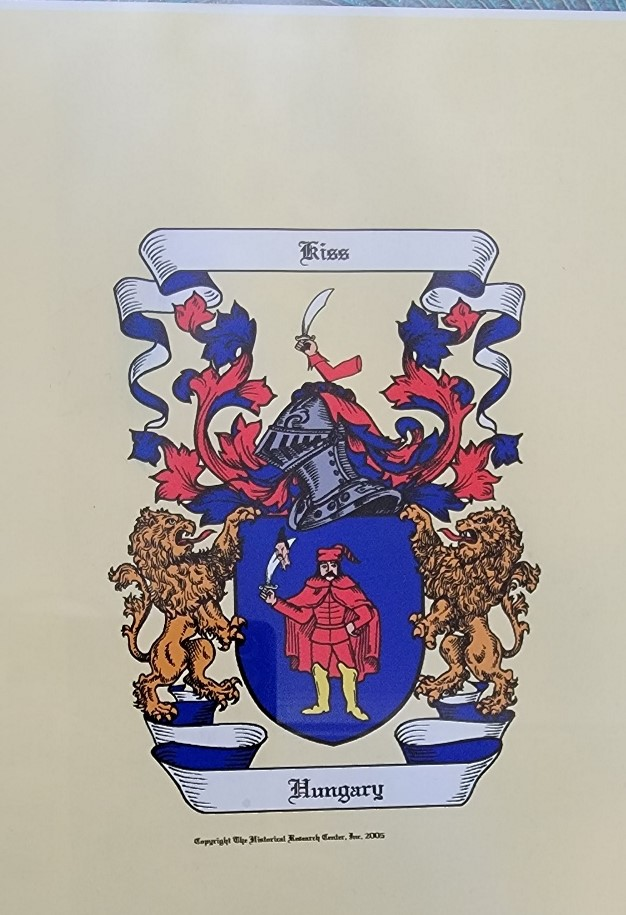
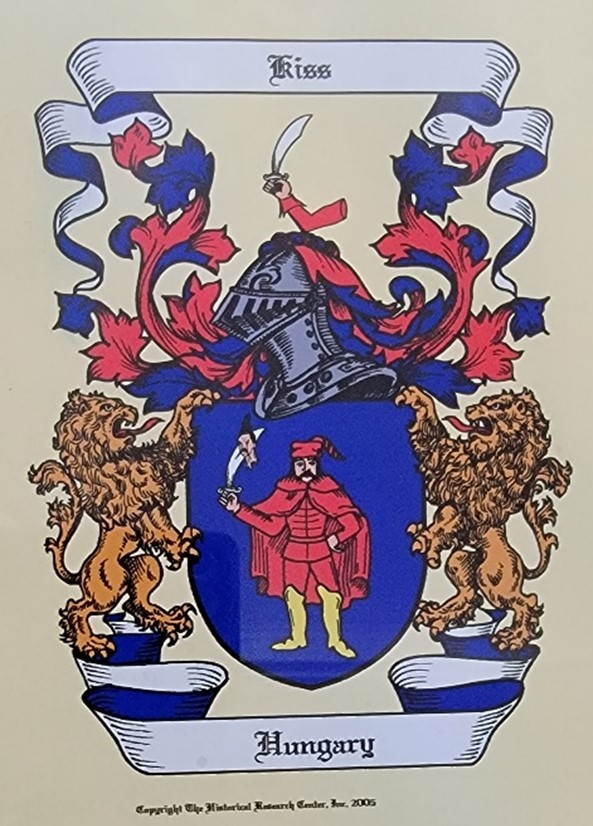
update to finished biopage

diff --git a/pages/Morris_about_page.html b/pages/Morris_about_page.html
@@ -43,39 +43,53 @@
 
                 <div id=story class="card-content">
                     <p>
-                        Born in Hungary in 1912. He grew up and finished high school as a promise to his mother. Then went against 
-                        family tradition and did not go to college but left to follow his dream to sail the world. Later joined the 
+                        Born in Hungary, August 28, 1912. He grew up and finished high school as a promise to his mother. Then went against 
+                        family tradition and did not go to college, but left to follow his dream of sailing the world. Later he joined the 
                         Hungarian army and became an officer before World War II started. During the war he was 
-                        commanded to march a battalion of 214 Jews 1500 miles to death, every one of them survived 
-                        because of the care he gave them, other battalions were not so lucky.
+                        commanded to march a battalion of 214 Jews 1500 miles to death, however, every one of them survived 
+                        because of the care he gave them; other battalions were not so lucky.
                     </p>
                     <p>
-                        Later he rented out apartments and with the help of one of the survivors from his death march battalion, 
-                        who was a lawyer, stole and forged identity papers for hiding Jews and to get them out of the 
+                        Later he rented out apartments and with the help of one of the survivors from the death march battalion, 
+                        who was a lawyer, stole and forged identity papers for hiding Jews and getting them out of the 
                         county and to safety.
                     </p>
                     <p>
-                        He and his family with many struggles finally made it out of Hungary and made it to Iserial 
-                        and later to America and settled in Queens, New York. There he became a painter and had a 
+                        He and his family, with many struggles, finally made it out of Hungary and made it to Israel.
+                    Later they immigtated to America and settled in Queens, New York. There he became a painter and he lived a 
                         better life with his wife and two children. He died at the age of 72 from cancer.
                     </p>
                     <p>
                         His wife, Henrietta, passed away in 2008. His son, Peter and his wife Karen live in 
-                        Huntsville, AL, and own a cyber security firm. His daughter, Judith and her husband 
+                        Huntsville, AL, and owns a cyber security firm. His daughter, Judith and her husband 
                         Thomas are retired in Bellevue, NE. Judy and Tom gave Barna 5 grandchildren, Robert 
-                        (Tom’s from a previous marriage), Tereza, Paul, Brenda, and Kathleen, all of them live 
-                        in the Bellevue, Ne Area. They all gave him 7 great-grandchildren, whom he was unfortunately 
-                        not able to meet, Ricky and Anthony from Robert, Jacob and Brandon from Tereza, David and 
+                        (Tom’s son from a previous marriage), Tereza, Paul, Brenda, and Kathleen, all of them live 
+                        in the Bellevue, Ne Area. They all gave him 8 great-grandchildren, whom he was unfortunately 
+                        not able to meet, Ricky and Anthony from Robert, Jacob and Brandon from Tereza, Autumn from Paul's wife, David and 
                         Tobias from Brenda, and Luke from Kathleen. They all have and will continue to hear his 
                         stories for many generations to come.
                     </p>
+                </div>
+                <div class="card-title">
+                    <h3>Kiss Family Crest</h3>
+                </div>
+
+                <div class="card-content">
+                    <div class="row">
+                        <div class="column" >
+                            <img src="../images/crest.jpg" >
+                        </div>
+                        <div class="column" >
+                            <img class="wide" src="../images/crestInfo.jpg" >
+                        </div>
+                    </div>
                 </div>
             </div>
         </div>
 
         <footer>
             <p>
-                
+                &copy; <script>document.write(new Date().getFullYear())</script> - <a>Jason Morris</a>
             </p>
         </footer>
     </body>

diff --git a/Morris_bioLanding_page.html b/Morris_bioLanding_page.html
@@ -45,7 +45,7 @@
                             <img class="wide" src="images/needlepoint ship.jpg" >
                         </div>
                     </div>
-
+                    <br>
                     <figcaption>Barna made a promise to his mother to finish high school before he followed his 
                         dreams of sailing around the world, against the family tradition of going to college. 
                         He sailed to 6 of the 7 continents, he only missed Australia.</figcaption>
@@ -57,7 +57,7 @@
             
             <div class="card">
                 <div class="card-title">
-                    Honors from West Chester Jewish Confrence
+                    Honors from West Chester Jewish Conference
                 </div>
 
                 <figure>
@@ -70,7 +70,8 @@
                         </div>
                     </div>
                     <div>
-                    <figcaption>Barna was given an award by the Westchester Jewish Conference for all
+                        <br>
+                        <figcaption>Barna was given an award by the Westchester Jewish Conference for all
                          the lives he saved during the Holocaust. This was the highest honor a non-Jew 
                          could receive for helping Jews during the Holocaust. </figcaption>
                     </div>
@@ -86,9 +87,10 @@
 
                 <figure>
                     <img class="wide" src="images/Barna on march.jpg" >
+                    <br>
                     <figcaption>Barna did many things to earn the award above, including preserving 
-                        the lives of 214 Jews he was ordered to work to death. </figcaption>
-                    </div>
+                        the lives of 214 Jews he was ordered to work to death. 
+                    </figcaption>
                 </figure>
             </div>
 
@@ -96,21 +98,48 @@
             
             <div class="card">
                 <div class="card-title">
-                    Smithsonian Holocust Museum
+                    Smithsonian Holocaust Museum
                 </div>
 
-                <div class="card-content">
-                    <p>
-
-                    </p>
-                </div>
+                <figure>
+                    <figcaption>
+                        At the Smithsonian, Barna has a life-size photo and other memorabilia. It is not always 
+                        on display; because they have so much to rotate through for the exhibit, but his family has seen the exhibit and treasures that people can read about some of his accomplishments. 
+                    </figcaption>
+                </figure>
             </div>
 
+            <hr />
+            
+            <div class="card">
+                <div class="card-title">
+                    Links
+                </div>
+
+                <figure>
+                    <figcaption>
+                        <p>Here are some links to other sites that have more information about Barna Kiss.</p>
+                        </br>
+                        <Div id="link">
+                            <a id="a" href=https://www.nytimes.com/1985/01/08/nyregion/barna-kiss-who-aided-jews-during-holocaust-dies-at-72.html> New York Times Obituary</a>
+                            </br>
+                            </br>
+                            <a id="b"href=http://ellenlandweber.com/rescuers/book/album/kiss/kiss.html>Hungarian Rescuer 1</a>
+                            </br>
+                            </br>
+                            <a id="c"href=http://ellenlandweber.com/rescuers/book/album/kiss/kiss2.html>Hungarian Rescuer 2</a>
+                            </br>
+                            </br>
+                            They did not say his name, but Barna is mentioned in the movie <span class="sentence">Shindler's List</span> as the Hungarian Gentlemen.
+                        </Div>
+                    </figcaption>
+                </figure>
+            </div>
         </div>
 
         <footer>
             <p>
-                
+                &copy; <script>document.write(new Date().getFullYear())</script> - <a href=https://styx07.github.io/csd-340>Jason Morris</a>
             </p>
         </footer>
     </body>

diff --git a/pages/Morris_hobbies_page.html b/pages/Morris_hobbies_page.html
@@ -38,9 +38,18 @@
                 </div>
 
                 <div class="card-content">
-                    <p>
-
-                    </p>
+                    <figure>
+                        <div class="row">
+                            <div class="column" >
+                                <img src="../images/ship picture.jpg" >
+                            </div>
+                            <div class="column" >
+                                <img class="wide" src="../images/needlepoint ship.jpg" >
+                            </div>
+                        </div>
+                        <br>
+                        <figcaption>Barna loved the sea and sailing ever since he was a young boy.</figcaption>
+                    </figure>
                 </div>
             </div>
 
@@ -50,9 +59,18 @@
                 </div>
 
                 <div class="card-content">
-                    <p>
-
-                    </p>
+                    <figure>
+                        <div class="row">
+                            <div class="column" >
+                                <img src="../images/braid.jpg" >
+                            </div>
+                            <div class="column" >
+                                <img class="wide" src="../images/horseBraid.jpg" >
+                            </div>
+                        </div>
+                        <br>
+                        <figcaption>Barna enjoyed to braid hair. He braided his daughter’s hair and for events, he personally braided his horse’s mane and tail.</figcaption>
+                    </figure>
                 </div>
             </div>
 
@@ -62,9 +80,12 @@
                 </div>
 
                 <div class="card-content">
-                    <p>
-
-                    </p>
+                    <figure>
+                        <img class="wide" src="../images/paint.jpg" >
+                        <br>
+                        <figcaption>Barna loved to paint. He made a career in painting houses when they immigrated to New York and painted his own home in Queens often.
+                        </figcaption>
+                    </figure>
                 </div>
             </div>
 
@@ -74,9 +95,14 @@
                 </div>
 
                 <div class="card-content">
-                    <p>
-
-                    </p>
+                    <div class="card-content">
+                        <figure>
+                            <img class="wide" src="../images/canasta.jpg" >
+                            <br>
+                            <figcaption>Barna had a hard time learning to play Rummy, so he learned Canasta instead. He was so good he could tell you every card in the discard pile.
+                            </figcaption>
+                        </figure>
+                    </div>
                 </div>
             </div>
 
@@ -86,16 +112,26 @@
                 </div>
 
                 <div class="card-content">
-                    <p>
-
-                    </p>
+                    <figure>
+                        <div class="row">
+                            <div class="column" >
+                                <img class="wide" src="../images/feed squirrel.jpg" >
+                            </div>
+                            <div class="column" >
+                                <img class="wide" src="../images/squirrel on door.jpg" >
+                            </div>
+                        </div>
+                        <br>
+                        <figcaption>He loved to take walks and feed different animals from his hands. Squirrels were one of his favorites. 
+                            At his funeral, hundreds of them sat in the quart yard of the church quietly until it was over. To this day the family still feeds the squirrels, or they start climbing on the front door.</figcaption>
+                    </figure>
                 </div>
             </div>
         </div>
 
         <footer>
             <p>
-                
+                &copy; <script>document.write(new Date().getFullYear())</script> - <a>Jason Morris</a>  
             </p>
         </footer>
     </body>

diff --git a/Morris_bioSite.css b/Morris_bioSite.css
@@ -37,6 +37,34 @@ header
     text-decoration: underline;
 }
 
+#link a 
+{
+    color: black;
+    text-decoration: none;
+}
+
+#a:hover 
+{
+    text-decoration: underline;
+    color: #b80303;
+}
+
+#b:hover 
+{
+    text-decoration: underline;
+    color: #fff;
+}
+
+#c:hover 
+{
+    text-decoration: underline;
+    color: #0f7d39;
+}
+
+#link a:hover 
+{
+    text-decoration: underline;
+}
 h1 
 {
     font-family: 'Caveat', cursive, Arial, sans-serif;
@@ -66,7 +94,7 @@ h2
 
 
 
-figcaption 
+figcaption, #story
 {
     text-align: center;
     margin-left: 10px;
@@ -107,29 +135,37 @@ img
     margin: auto;
 }
 
-#story
+.sentence 
 {
-    text-align: center;
-    width: 95%;
+    font-style: italic;
 }
 
 footer
 {
-    
+    background-color: bisque;
+     
+    bottom: 0;
+    width: 100%;
 }
 
 footer p
 {
-    
+    color: #000000;
+    font-weight: 400;
+    float: right;
+    padding-right: 10px;
+    font-style: italic;
+    font-size: .75em;
 }
 
 footer a
 {
-    
-    
+    text-decoration: none;
+    color: #000000;
 }
 
 footer a:hover
 {
-    
+    text-decoration: underline;
+    color: red
 }
